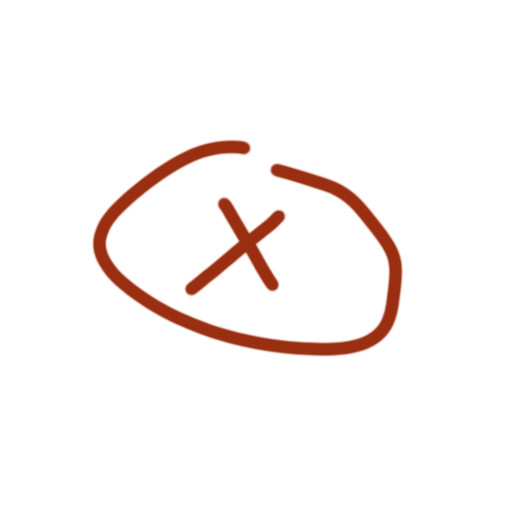
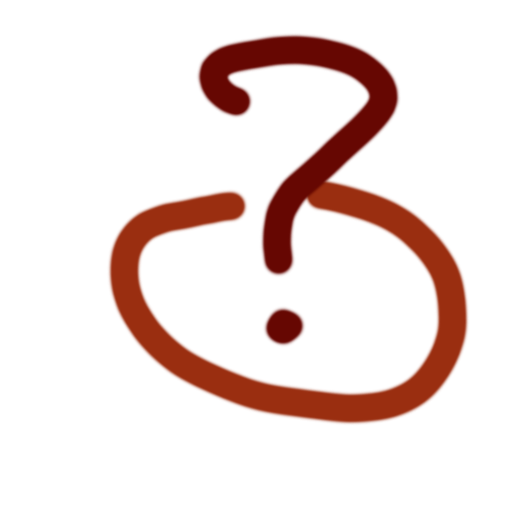
add custom hero marker, edit marker

Changed region(s): [[0.1562, 0.0625, 0.9375, 0.8438]]

diff --git a/keyin/src/components/GameMap.jsx b/keyin/src/components/GameMap.jsx
@@ -4,6 +4,7 @@ import { useMap } from 'react-leaflet/hooks'
 import { useState, useEffect } from "react";
 // import L from 'leaflet';
 import marker from '../assets/marker.png'
+import heromarker from '../assets/heromarker.png'
 import 'leaflet/dist/leaflet.css';
 import './GameMap.css'
 
@@ -15,8 +16,13 @@ import './GameMap.css'
 //   shadowUrl: 'https://cdnjs.cloudflare.com/ajax/libs/leaflet/1.7.1/images/marker-shadow.png',
 // });
 
-const customIcon = new Icon({
+const customPointIcon = new Icon({
   iconUrl: marker,
+  iconSize: [64,64]
+});
+
+const customHeroIcon = new Icon({
+  iconUrl: heromarker,
   iconSize: [64,64]
 });
 
@@ -63,13 +69,13 @@ function GameMap({ currentPoint }) {
       <MoveMap position={userPosition} />
 
       {currentPoint && (
-        <Marker position={currentPoint.coordinates} icon={customIcon}>
+        <Marker position={currentPoint.coordinates} icon={customPointIcon}>
           <Popup>{currentPoint.text}</Popup>
         </Marker>
       )}
 
       {userPosition && (
-        <Marker position={userPosition}>
+        <Marker position={userPosition} icon={customHeroIcon}>
           <Popup>Вы здесь</Popup>
         </Marker>
       )}

diff --git a/keyin/src/pages/Game.jsx b/keyin/src/pages/Game.jsx
@@ -37,7 +37,7 @@ function Game() {
   const [generatedPoint, setGeneratedPoint] = useState(null);
   const [isLoaded, setIsLoaded] = useState(false);
   const [isNearPoint, setIsNearPoint] = useState(false);
-  const maxDistance = 500;
+  const maxDistance = 100;
 
   // Загрузка истории и текущего индекса
   useEffect(() => {
